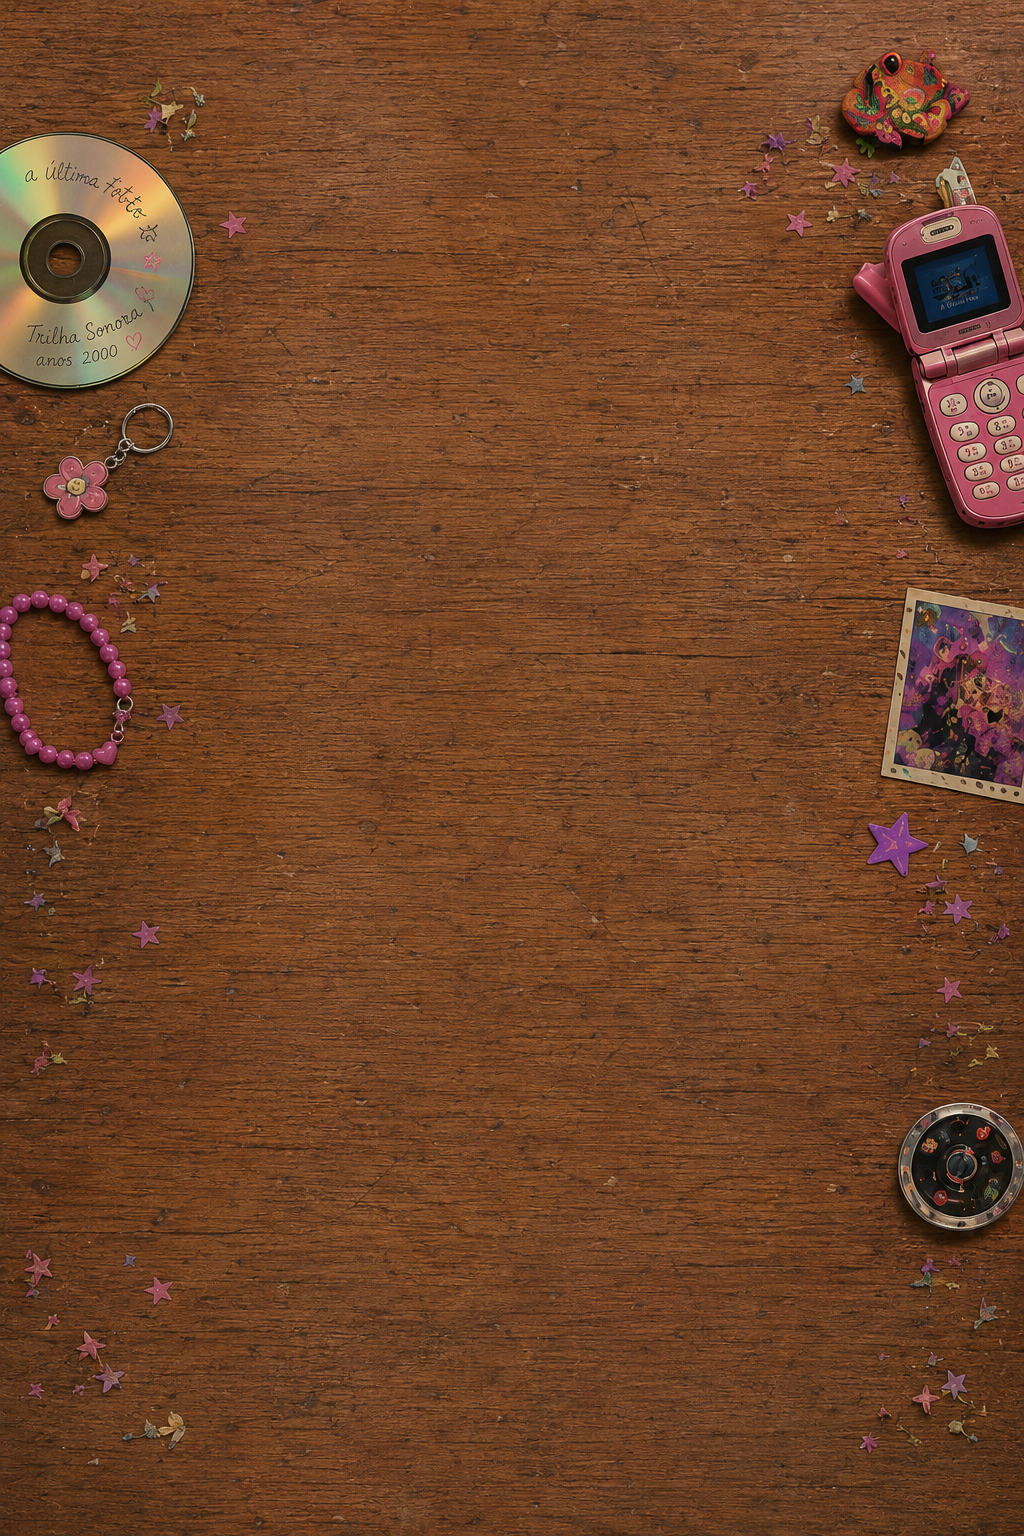
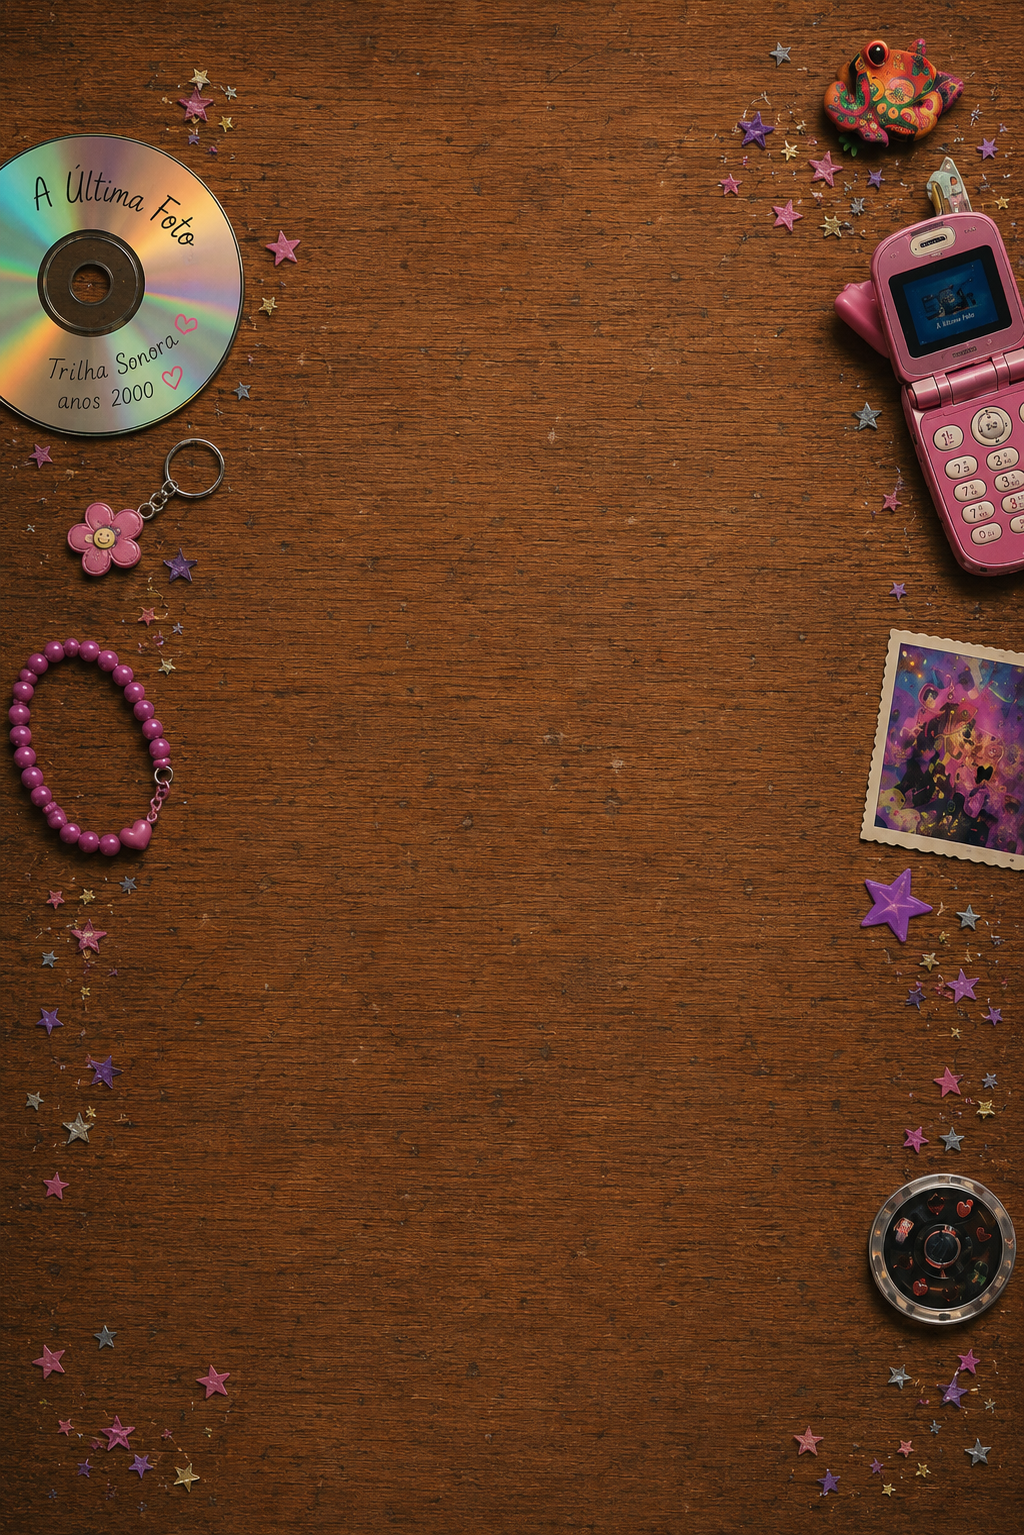
site pronto falta a foto da gabi

diff --git a/index.html b/index.html
@@ -52,7 +52,7 @@
   <!-- INFO TRIPLA -->
   <section class="info-triple" id="como-jogar">
     <div class="info-card">
-      <h3 class="info-title">Features ♡</h3>
+      <h3 class="info-title">Features</h3>
       <ul>
         <li>⭐ Puzzles 2D integrados ao ambiente 3D</li>
         <li>⭐ Exploração e interação em primeira pessoa</li>
@@ -62,7 +62,7 @@
     </div>
 
     <div class="info-card center-card" id="download">
-      <h3 class="info-title">Download da Demo ♡</h3>
+      <h3 class="info-title">Download da Demo</h3>
       <p>Escolha sua plataforma e<br>viva essa experiência.</p>
 
       <a href="https://github.com/marlonribasoficial/a-ultima-foto-demo/releases/download/demo/aultimafoto-demo-macOS.dmg" class="btn-apple" download>
@@ -82,7 +82,7 @@
     </div>
 
     <div class="info-card">
-      <h3 class="info-title">Como abrir no macOS ♡</h3>
+      <h3 class="info-title">Como abrir no macOS</h3>
       <ol>
         <li><span class="step-num">1</span> Baixe e extraia o arquivo .zip</li>
         <li><span class="step-num">2</span> Clique com o botão direito no app</li>
@@ -103,48 +103,60 @@
     </div>
 
     <div class="equipe-center">
-      <h2 class="section-title-pink">Equipe ♡</h2>
+      <h2 class="section-title-pink">Equipe</h2>
       <div class="team-grid">
 
         <div class="team-member">
-          <div class="polaroid-frame">
-            <div class="silhouette"></div>
-          </div>
+          <a href="https://www.linkedin.com/in/ana-macedo-73a822303/" target="_blank">
+            <div class="polaroid-frame">
+              <img src="ana.jpeg" alt="Ana Macedo" class="polaroid-photo" />
+            </div>
+          </a>
           <p>Ana<br>Macedo</p>
         </div>
 
         <div class="team-member">
-          <div class="polaroid-frame">
-            <div class="silhouette"></div>
-          </div>
+          <a href="https://www.linkedin.com/in/gabriella-tomoda/" target="_blank">
+            <div class="polaroid-frame">
+              <img src="gabriella.jpeg" alt="Gabriella Tomoda" class="polaroid-photo" />
+            </div>
+          </a>
           <p>Gabriella<br>Tomoda</p>
         </div>
 
         <div class="team-member">
-          <div class="polaroid-frame">
-            <div class="silhouette"></div>
-          </div>
+          <a href="https://www.linkedin.com/in/isabel-cristina-marras-salles-03b7011b0/" target="_blank">
+            <div class="polaroid-frame">
+              <img src="bel.jpeg" alt="Isabel Cristina" class="polaroid-photo" />
+            </div>
+          </a>
           <p>Isabel<br>Cristina</p>
         </div>
 
         <div class="team-member">
-          <div class="polaroid-frame">
-            <div class="silhouette"></div>
-          </div>
+          <a href="https://www.linkedin.com/in/isabella-brum/" target="_blank">
+            <div class="polaroid-frame">
+              <img src="isa.jpeg" alt="Isabella Brum" class="polaroid-photo" />
+            </div>
+          </a>
           <p>Isabella<br>Brum</p>
         </div>
 
         <div class="team-member">
-          <div class="polaroid-frame">
-            <div class="silhouette"></div>
-          </div>
+          <a href="https://www.linkedin.com/in/juliaoliveirareis/" target="_blank">
+            <div class="polaroid-frame">
+              <img src="julia.jpeg" alt="Julia Reis" class="polaroid-photo" />
+            </div>
+          </a>
           <p>Julia<br>Reis</p>
         </div>
 
         <div class="team-member">
-          <div class="polaroid-frame">
-            <div class="silhouette"></div>
-          </div>
+          <a href="https://www.linkedin.com/in/marlon-ribas/" target="_blank">
+            <div class="polaroid-frame">
+              <img src="marlon.jpeg" alt="Marlon Ribas" class="polaroid-photo" />
+            </div>
+          </a>
           <p>Marlon<br>Ribas</p>
         </div>
 

diff --git a/style.css b/style.css
@@ -521,6 +521,14 @@ body {
   justify-content: center;
 }
 
+.polaroid-photo {
+  width: 74px;
+  height: 80px;
+  object-fit: cover;
+  object-position: center top; /* foca no rosto */
+  display: block;
+}
+
 .silhouette::after {
   content: '👤';
   font-size: 2.4rem;
@@ -551,12 +559,12 @@ footer {
 
   /* Overlays continuam absolutos — só escalam */
   .book-overlay-left {
-    padding: 6% 0% 6% 10%;
+    padding: 6% 0% 6% 12%;
     gap: 10px;
   }
 
   .book-overlay-right {
-    padding: 6% 4% 6% 0%;
+    padding: 6% 6% 6% 0%;
     gap: 10px;
   }
 
